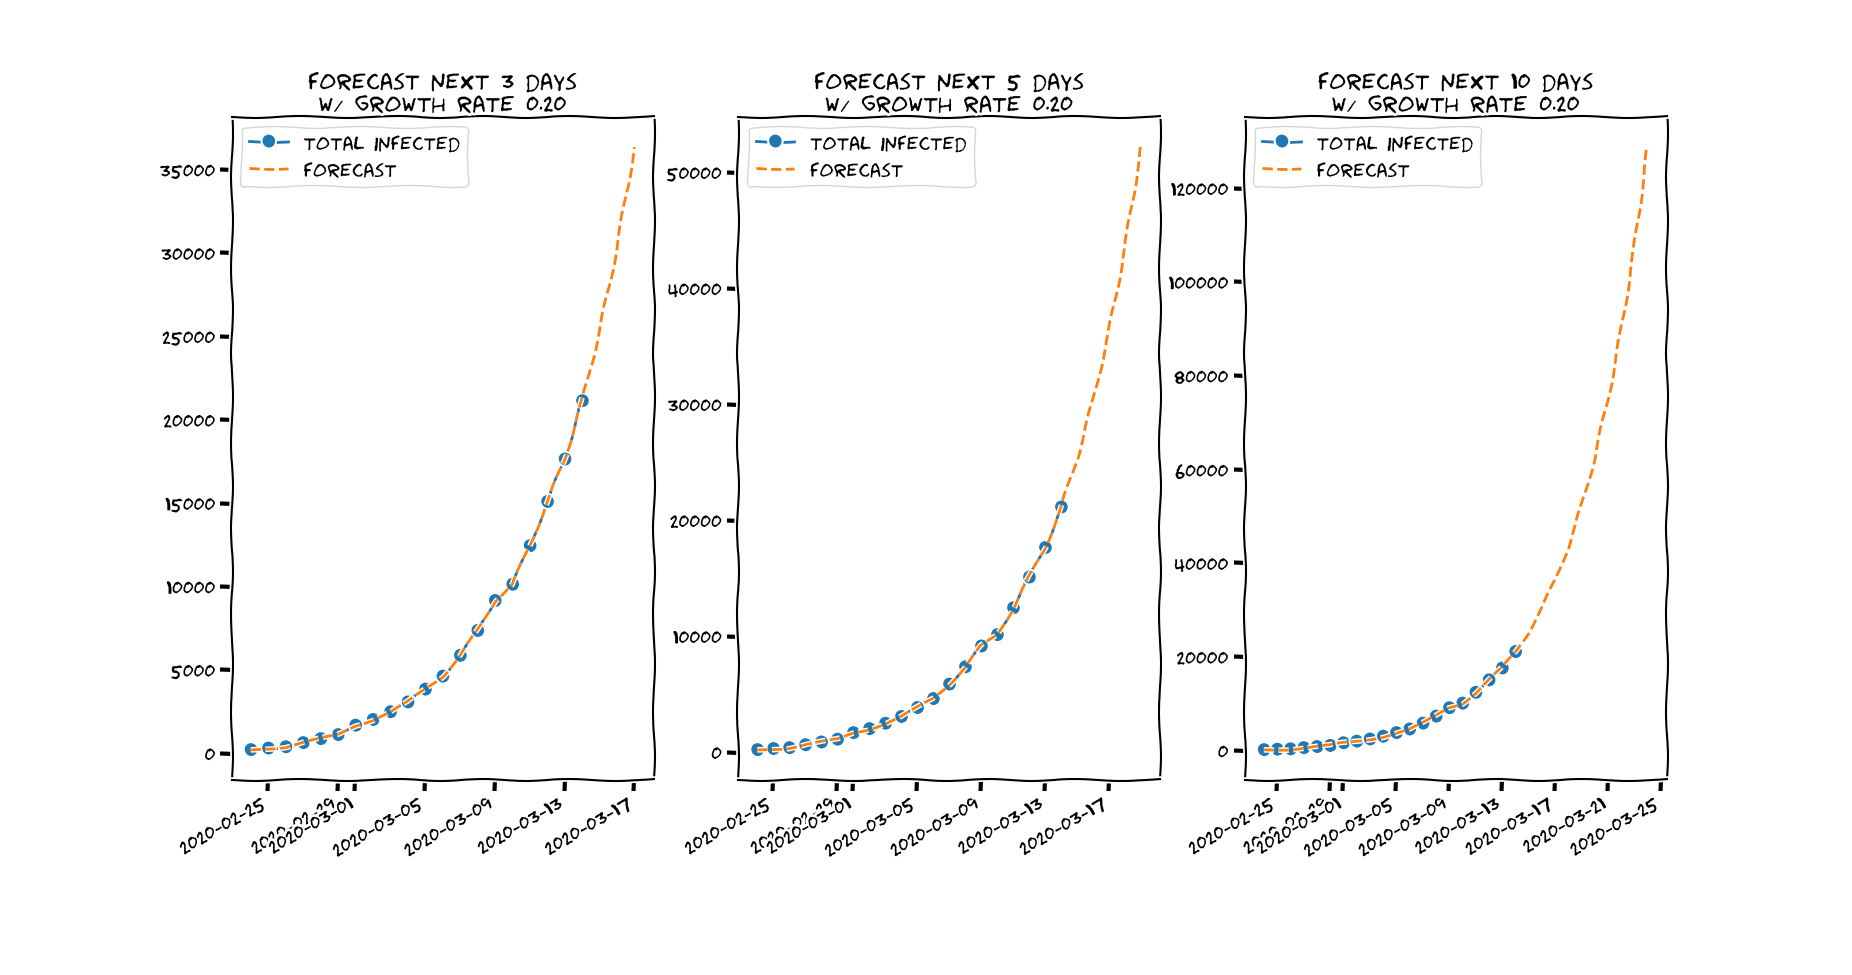
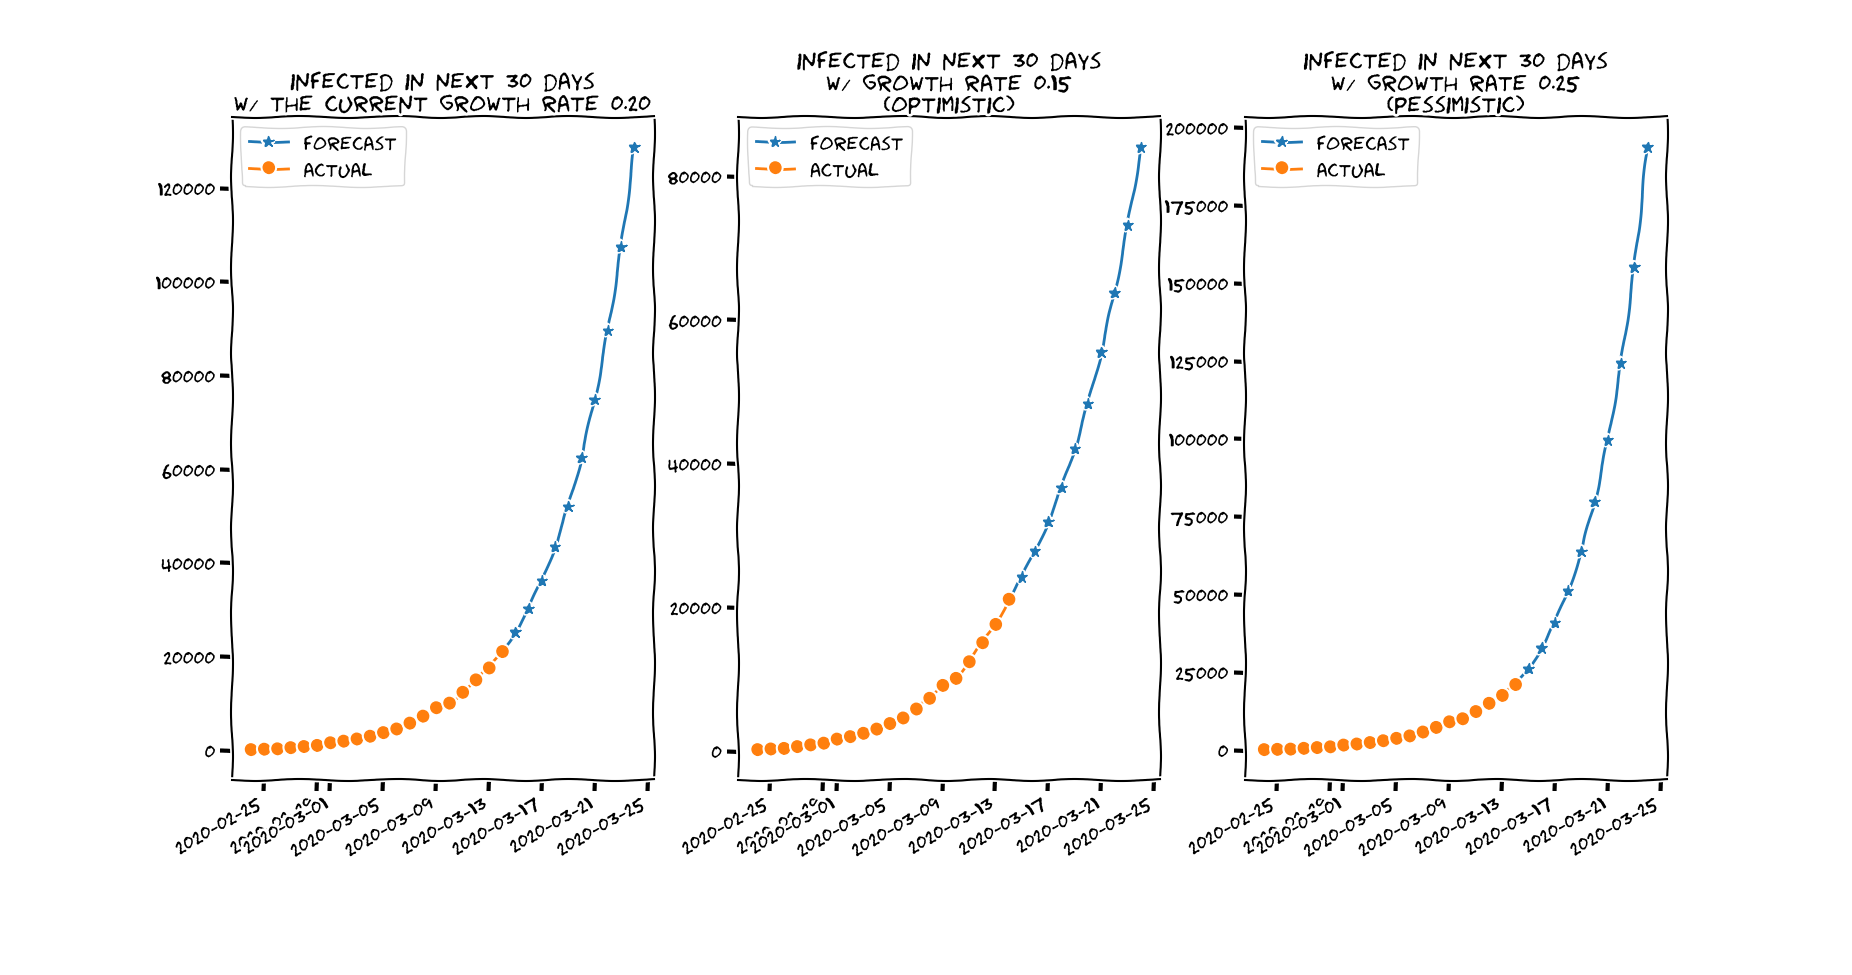
:pencil2: fix forecast.png

diff --git a/main.py b/main.py
@@ -39,23 +39,19 @@ if __name__ == '__main__':
     avg_growth_rate = moving_average(growth_rate, 5)
 
     # forecast
-    infected_forecast_3days = infected_list.copy()
-    infected_forecast_5days = infected_list.copy()
-    infected_forecast_10days = infected_list.copy()
+    infected_forecast = infected_list.copy()
+    infected_forecast_optimistic = infected_list.copy()
+    infected_forecast_pessimistic = infected_list.copy()
+    dates_forecast = dates.copy()
 
-    dates_forecast_3days = dates.copy()
-    dates_forecast_5days = dates.copy()
-    dates_forecast_10days = dates.copy()
-
-    for _ in range(3):
-        infected_forecast_3days.append(infected_forecast_3days[-1] * (1 + growth_rate[-1]))
-        dates_forecast_3days.append(dates_forecast_3days[-1] + timedelta(days=1))
-    for _ in range(5):
-        infected_forecast_5days.append(infected_forecast_5days[-1] * (1 + growth_rate[-1]))
-        dates_forecast_5days.append(dates_forecast_5days[-1] + timedelta(days=1))
     for _ in range(10):
-        infected_forecast_10days.append(infected_forecast_10days[-1] * (1 + growth_rate[-1]))
-        dates_forecast_10days.append(dates_forecast_10days[-1] + timedelta(days=1))
+        infected_forecast.append(infected_forecast[-1] * (1 + growth_rate[-1]))
+        infected_forecast_optimistic.append(
+            infected_forecast_optimistic[-1] * (1 + growth_rate[-1] - 0.05))
+        infected_forecast_pessimistic.append(
+            infected_forecast_pessimistic[-1] * (1 + growth_rate[-1] + 0.05))
+
+        dates_forecast.append(dates_forecast[-1] + timedelta(days=1))
 
     print("-" * 50)
     print(f"{str(dates[-1])[:10]} Report")
@@ -74,9 +70,9 @@ if __name__ == '__main__':
     print(f"Growth rate is {growth_rate[-1]:.2f} (5 days smoothing is {avg_growth_rate[-1]:.2f})")
     print("-" * 50)
     print(f"Forecast with the current growth rate ({growth_rate[-1]:.2f})")
-    print(f"--- after 3 days: {int(infected_forecast_3days[-1])}")
-    print(f"--- after 5 days: {int(infected_forecast_5days[-1])}")
-    print(f"--- after 10 days: {int(infected_forecast_10days[-1])}")
+    print(f"--- after 3 days: {int(infected_forecast[-8])}")
+    print(f"--- after 5 days: {int(infected_forecast[-6])}")
+    print(f"--- after 10 days: {int(infected_forecast[-1])}")
 
     plt.rc('lines', linewidth=3, markersize=8)
     plt.rc('font', size=12)
@@ -117,22 +113,23 @@ if __name__ == '__main__':
 
         fig.autofmt_xdate()
 
-        ax1.plot(dates, infected, 'o-', label='total infected')
-        ax1.plot(dates_forecast_3days, infected_forecast_3days, '--',
-                 label='forecast')
-        ax1.set_title(f'forecast next 3 days\nw/ growth rate {growth_rate[-1]:.2f}')
+        ax1.plot(dates_forecast, infected_forecast, '*-', label='forecast')
+        ax1.plot(dates, infected, 'o-', label='actual')
+
+        ax1.set_title(f'infected in next 30 days\nw/ the current growth rate {growth_rate[-1]:.2f}')
         ax1.legend(loc='upper left')
 
-        ax2.plot(dates, infected, 'o-', label='total infected')
-        ax2.plot(dates_forecast_5days, infected_forecast_5days, '--',
-                 label='forecast')
-        ax2.set_title(f'forecast next 5 days\nw/ growth rate {growth_rate[-1]:.2f}')
+        ax2.plot(dates_forecast, infected_forecast_optimistic, '*-', label='forecast')
+        ax2.plot(dates, infected, 'o-', label='actual')
+        ax2.set_title(f'infected in next 30 days\nw/ growth rate'
+                      f' {growth_rate[-1] - 0.05:.2f}\n('
+                      f'optimistic)')
         ax2.legend(loc='upper left')
 
-        ax3.plot(dates, infected, 'o-', label='total infected')
-        ax3.plot(dates_forecast_10days, infected_forecast_10days, '--',
-                 label=f'forecast')
-        ax3.set_title(f'forecast next 10 days\nw/ growth rate {growth_rate[-1]:.2f}')
+        ax3.plot(dates_forecast, infected_forecast_pessimistic, '*-', label='forecast')
+        ax3.plot(dates, infected, 'o-', label='actual')
+        ax3.set_title(f'infected in next 30 days\nw/ growth rate {growth_rate[-1] + 0.05:.2f}\n('
+                      f'pessimistic)')
         ax3.legend(loc='upper left')
 
         plt.show()
